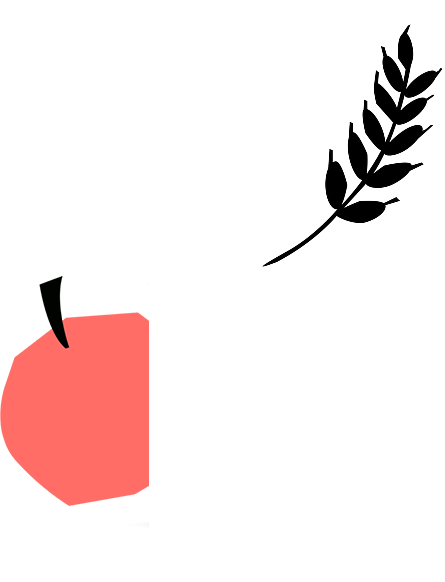
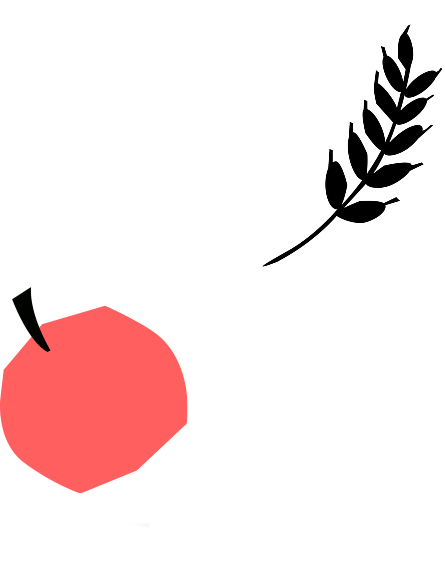
Hero Scroll Animation

Changed region(s): [[0.0292, 0.4639, 0.4382, 0.866], [0.0, 0.6186, 0.0292, 0.7732], [0.0292, 0.7732, 0.0584, 0.8041]]

diff --git a/index.html b/index.html
@@ -2,7 +2,7 @@
 <html lang="en">
 <head>
   <meta charset="utf-8">
-  <title>Vamos</title>
+  <title>Vamos - By Mahou</title>
   <meta name="viewport" content="width=device-width, initial-scale=1, shrink-to-fit=no">
   <link rel="shortcut icon" href="images/logo.png">
   <link rel="stylesheet" href="include/css/bootstrap/bootstrap.min.css" type="text/css">
@@ -11,12 +11,9 @@
   <link rel="stylesheet" href="include/css/fontawesome.min.css">
   <link rel="stylesheet" href="include/webfonts/fonts.css">
   
-  
   <link rel="stylesheet" href="include/css/owl.carousel.min.css">
   <link rel="stylesheet" href="include/css/owl.theme.default.min.css">
-
   
-
   <link rel="stylesheet" href="include/css/animate.css">
   <script src="include/js/wow.min.js"></script>
   <script>new WOW().init();</script>
@@ -51,21 +48,54 @@
       </div>
       <div class="row justify-content-center">
         <div class="hero-cans-con">
-          <div class="div1 valign-baseline wow fadeInLeft"><img src="images/laliga.png" class="w-100" alt=""></div>
-          <div class="div2 valign-baseline wow fadeInRight">
+          <div class="div1 valign-baseline"><img src="images/laliga.png" class="w-100" alt=""></div>
+          <div class="div2 valign-baseline">
             <div class="non-alcoholic text-end d-block">non-alcoholic<br>malt beverage</div>
             <!-- <div class="explore-btn"><a href="#"><img src="images/hero-btn.png" class="w-100" alt=""></a></div> -->
-            <div class="explore-btn">
+            <div class="explore-btn text-end">
               <a href="#"><span>Explore</span><img src="images/logo.png" alt=""></a>
             </div>
           </div>
           <!-- <div class="div3"><img src="images/hero-img.png" class="w-100" alt=""></div> -->
           <div class="div3">
-            <div class="hero-img-animation">
-              <div class="hero-shape"></div>
-              <div class="hero-can wow bounceInUp"><img src="images/pinapple-can.png" class="w-100" alt=""></div>
-              <div class="hero-can wow bounceInUp"><img src="images/toasted-malt-can.png" class="w-100" alt=""></div>
-              <div class="hero-can wow bounceInUp"><img src="images/apple-can.png" class="w-100" alt=""></div>
+            <div class="hero-animation">
+              <div class="hero-product-box">
+                <div class="product-img animated-products animated-products-left">
+                  <img src="images/can-mask.png" class="mw-100" alt="">
+                  <div class="product-labels">
+                    <img src="images/peach-label-hero.jpg" alt="">
+                    <img src="images/peach-label-hero.jpg" alt="">
+                  </div>
+                </div>
+              </div>
+              <div class="hero-product-box">
+                <div class="product-img animated-products animated-products-left">
+                  <img src="images/can-mask.png" class="mw-100" alt="">
+                  <div class="product-labels">
+                    <img src="images/malt-label-hero.jpg" alt="">
+                    <img src="images/malt-label-hero.jpg" alt="">
+                  </div>
+                </div>
+              </div>
+              <div class="hero-product-box">
+                <div class="product-img animated-products animated-products-right">
+                  <img src="images/can-mask.png" class="mw-100" alt="">
+                  <div class="product-labels">
+                    <img src="images/pinapple-label.jpg" alt="">
+                    <img src="images/pinapple-label.jpg" alt="">
+                  </div>
+                </div>
+              </div>
+              <div class="hero-product-box">
+                <div class="product-img animated-products animated-products-right">
+                  <img src="images/can-mask.png" class="mw-100" alt="">
+                  <div class="product-labels">
+                    <img src="images/apple-label.jpg" alt="">
+                    <img src="images/apple-label.jpg" alt="">
+                  </div>
+                </div>
+              </div>
+
             </div>
           </div>
         </div>
@@ -97,11 +127,47 @@
     <div class="row">
       <div class="col-12">
         <div class="team-carousel owl-carousel owl-theme wow fadeInRight">
-          <div class="product-box">
+          <div class="product-box" style="background-image:url(images/peach-bg.png);">
             <div class="product-name">Peach <span>with Vanilla</span></div>
-            <div class="product-img" style="background-image:url(images/peach-bg.png);"><img src="images/peach-can.png" class="w-100" alt=""></div>
+            <div class="product-img animated-products">
+              <img src="images/can-mask-pc.png" class="mw-100" alt="">
+              <div class="product-labels">
+                <img src="images/peach-label.jpg" alt="">
+                <img src="images/peach-label.jpg" alt="">
+              </div>
+            </div>
           </div>
-          <div class="product-box">
+          <div class="product-box" style="background-image:url(images/malt-bg.png);">
+            <div class="product-name">Toasted <span>Malt</span></div>
+            <div class="product-img animated-products">
+              <img src="images/can-mask-pc.png" class="mw-100" alt="">
+              <div class="product-labels">
+                <img src="images/malt-label.jpg" alt="">
+                <img src="images/malt-label.jpg" alt="">
+              </div>
+            </div>
+          </div>
+          <div class="product-box" style="background-image:url(images/pinapple-bg.png);">
+            <div class="product-name">Pineapple <span>with caramel</span></div>
+            <div class="product-img animated-products">
+              <img src="images/can-mask-pc.png" class="mw-100" alt="">
+              <div class="product-labels">
+                <img src="images/pinapple-label.jpg" alt="">
+                <img src="images/pinapple-label.jpg" alt="">
+              </div>
+            </div>
+          </div>
+          <div class="product-box" style="background-image:url(images/apple-bg.png);">
+            <div class="product-name">Apple <span>with Cinnamon</span></div>
+            <div class="product-img animated-products">
+              <img src="images/can-mask-pc.png" class="mw-100" alt="">
+              <div class="product-labels">
+                <img src="images/apple-label.jpg" alt="">
+                <img src="images/apple-label.jpg" alt="">
+              </div>
+            </div>
+          </div>
+          <!-- <div class="product-box">
             <div class="product-name">Toasted <span>Malt</span></div>
             <div class="product-img" style="background-image:url(images/malt-bg.png);"><img src="images/toasted-malt-can.png" class="w-100" alt=""></div>
           </div>
@@ -112,7 +178,7 @@
           <div class="product-box">
             <div class="product-name">Apple <span>with Cinnamon</span></div>
             <div class="product-img" style="background-image:url(images/apple-bg.png);"><img src="images/apple-can.png" class="w-100" alt=""></div>
-          </div>
+          </div> -->
         </div>
       </div>
     </div>
@@ -170,6 +236,7 @@
   <script src="include/js/owl.carousel.js"></script>
 
   <script src="https://cdn.jsdelivr.net/npm/gsap@3.13.0/dist/gsap.min.js"></script>
+  <script src="https://cdn.jsdelivr.net/npm/gsap@3.13.0/dist/ScrollTrigger.min.js"></script>
   <script src="https://cdn.jsdelivr.net/npm/gsap@3.13.0/dist/SplitText.min.js"></script>
   <script>
   // use a script tag or an external JS file
@@ -188,8 +255,78 @@
       /* delay:0.5 */
     });
   });
-
   </script>
+<script>
+ // use a script tag or an external JS file
+document.addEventListener("DOMContentLoaded", (event) => {
+  gsap.registerPlugin(ScrollTrigger)
+  // gsap code here!
+  let hero = document.querySelector(".hero");
+  let viewportWidth = window.innerWidth;
+
+  let tl = gsap.timeline({
+    scrollTrigger: {
+      trigger: hero,
+      start: "top top",
+      end:  () => window.innerHeight * 3 + " top",
+      scrub: true,
+      pin: true,
+      toggleActions: "play none none none",
+      // markers: true
+    }
+    /* scrollTrigger: {
+      trigger: ".animated-products",
+      start: "bottom bottom",
+      end: "bottom top",
+      scrub: true,
+      pin: hero,
+      toggleActions: "play none none none",
+      markers: true
+    } */
+  });
+
+  tl.from(".animated-products-left, .animated-products-right", {
+    duration:300,
+    // x:-viewportWidth,
+    x: (i, el) => el.classList.contains("animated-products-left") ? -window.innerWidth : window.innerWidth,
+    stagger:0.2,
+    // scale: 0,
+    ease:"power4.out",
+  });
+  tl.to(".animated-products-left .product-labels",{
+    duration:300,
+    //x:viewportWidth*.42,
+    x: window.innerWidth > 990
+    ? viewportWidth*.37
+    : window.innerWidth > 768
+      ? viewportWidth*.65
+      : viewportWidth*.42,
+    stagger:0.2,
+    ease:"power4.out",
+  },0);
+  /* tl.from(".animated-products-right", {
+    duration:300,
+    x:viewportWidth,
+    stagger:0.2,
+    ease:"power4.out",
+  }); */
+  tl.to(".animated-products-right .product-labels",{
+    duration:300,
+    x:-viewportWidth*.37,
+    stagger:0.2,
+    ease:"power4.out",
+  },0);
+  tl.from(".div1, .div2",{
+    delay:300,
+    duration:300,
+    opacity:0,
+    y:-30,// > 768 ? -400 : 0
+    stagger:0.2,
+    ease:"power4.out",
+  },0);
+});
+
+</script>
 
   <!-- Smooth Scrolling -->
   <script src="https://unpkg.com/lenis@1.3.11/dist/lenis.min.js"></script> 

diff --git a/include/css/owl.carousel.min.css b/include/css/owl.carousel.min.css
@@ -3,4 +3,4 @@
  * Copyright 2013-2018 David Deutsch
  * Licensed under: SEE LICENSE IN https://github.com/OwlCarousel2/OwlCarousel2/blob/master/LICENSE
  */
-.owl-carousel,.owl-carousel .owl-item{-webkit-tap-highlight-color:transparent;position:relative}.owl-carousel{display:none;width:100%;z-index:1}.owl-carousel .owl-stage{position:relative;-ms-touch-action:pan-Y;touch-action:manipulation;-moz-backface-visibility:hidden}.owl-carousel .owl-stage:after{content:".";display:block;clear:both;visibility:hidden;line-height:0;height:0}.owl-carousel .owl-stage-outer{position:relative;overflow:hidden;-webkit-transform:translate3d(0,0,0)}.owl-carousel .owl-item,.owl-carousel .owl-wrapper{-webkit-backface-visibility:hidden;-moz-backface-visibility:hidden;-ms-backface-visibility:hidden;-webkit-transform:translate3d(0,0,0);-moz-transform:translate3d(0,0,0);-ms-transform:translate3d(0,0,0)}.owl-carousel .owl-item{min-height:1px;float:left;-webkit-backface-visibility:hidden;-webkit-touch-callout:none}.owl-carousel .owl-item img{display:block;width:100%}.owl-carousel .owl-dots.disabled,.owl-carousel .owl-nav.disabled{display:none}.no-js .owl-carousel,.owl-carousel.owl-loaded{display:block}.owl-carousel .owl-dot,.owl-carousel .owl-nav .owl-next,.owl-carousel .owl-nav .owl-prev{cursor:pointer;-webkit-user-select:none;-khtml-user-select:none;-moz-user-select:none;-ms-user-select:none;user-select:none}.owl-carousel .owl-nav button.owl-next,.owl-carousel .owl-nav button.owl-prev,.owl-carousel button.owl-dot{background:0 0;color:inherit;border:none;padding:0!important;font:inherit}.owl-carousel.owl-loading{opacity:0;display:block}.owl-carousel.owl-hidden{opacity:0}.owl-carousel.owl-refresh .owl-item{visibility:hidden}.owl-carousel.owl-drag .owl-item{-ms-touch-action:pan-y;touch-action:pan-y;-webkit-user-select:none;-moz-user-select:none;-ms-user-select:none;user-select:none}.owl-carousel.owl-grab{cursor:move;cursor:grab}.owl-carousel.owl-rtl{direction:rtl}.owl-carousel.owl-rtl .owl-item{float:right}.owl-carousel .animated{animation-duration:1s;animation-fill-mode:both}.owl-carousel .owl-animated-in{z-index:0}.owl-carousel .owl-animated-out{z-index:1}.owl-carousel .fadeOut{animation-name:fadeOut}@keyframes fadeOut{0%{opacity:1}100%{opacity:0}}.owl-height{transition:height .5s ease-in-out}.owl-carousel .owl-item .owl-lazy{opacity:0;transition:opacity .4s ease}.owl-carousel .owl-item .owl-lazy:not([src]),.owl-carousel .owl-item .owl-lazy[src^=""]{max-height:0}.owl-carousel .owl-item img.owl-lazy{transform-style:preserve-3d}.owl-carousel .owl-video-wrapper{position:relative;height:100%;background:#000}.owl-carousel .owl-video-play-icon{position:absolute;height:80px;width:80px;left:50%;top:50%;margin-left:-40px;margin-top:-40px;background:url(owl.video.play.png) no-repeat;cursor:pointer;z-index:1;-webkit-backface-visibility:hidden;transition:transform .1s ease}.owl-carousel .owl-video-play-icon:hover{-ms-transform:scale(1.3,1.3);transform:scale(1.3,1.3)}.owl-carousel .owl-video-playing .owl-video-play-icon,.owl-carousel .owl-video-playing .owl-video-tn{display:none}.owl-carousel .owl-video-tn{opacity:0;height:100%;background-position:center center;background-repeat:no-repeat;background-size:contain;transition:opacity .4s ease}.owl-carousel .owl-video-frame{position:relative;z-index:1;height:100%;width:100%}
+.owl-carousel,.owl-carousel .owl-item{-webkit-tap-highlight-color:transparent;position:relative}.owl-carousel{display:none;width:100%;z-index:1}.owl-carousel .owl-stage{position:relative;-ms-touch-action:pan-Y;touch-action:manipulation;-moz-backface-visibility:hidden}.owl-carousel .owl-stage:after{content:".";display:block;clear:both;visibility:hidden;line-height:0;height:0}.owl-carousel .owl-stage-outer{position:relative;overflow:hidden;-webkit-transform:translate3d(0,0,0)}.owl-carousel .owl-item,.owl-carousel .owl-wrapper{-webkit-backface-visibility:hidden;-moz-backface-visibility:hidden;-ms-backface-visibility:hidden;-webkit-transform:translate3d(0,0,0);-moz-transform:translate3d(0,0,0);-ms-transform:translate3d(0,0,0)}.owl-carousel .owl-item{min-height:1px;float:left;-webkit-backface-visibility:hidden;-webkit-touch-callout:none}/* .owl-carousel .owl-item img{display:block;width:100%} */.owl-carousel .owl-dots.disabled,.owl-carousel .owl-nav.disabled{display:none}.no-js .owl-carousel,.owl-carousel.owl-loaded{display:block}.owl-carousel .owl-dot,.owl-carousel .owl-nav .owl-next,.owl-carousel .owl-nav .owl-prev{cursor:pointer;-webkit-user-select:none;-khtml-user-select:none;-moz-user-select:none;-ms-user-select:none;user-select:none}.owl-carousel .owl-nav button.owl-next,.owl-carousel .owl-nav button.owl-prev,.owl-carousel button.owl-dot{background:0 0;color:inherit;border:none;padding:0!important;font:inherit}.owl-carousel.owl-loading{opacity:0;display:block}.owl-carousel.owl-hidden{opacity:0}.owl-carousel.owl-refresh .owl-item{visibility:hidden}.owl-carousel.owl-drag .owl-item{-ms-touch-action:pan-y;touch-action:pan-y;-webkit-user-select:none;-moz-user-select:none;-ms-user-select:none;user-select:none}.owl-carousel.owl-grab{cursor:move;cursor:grab}.owl-carousel.owl-rtl{direction:rtl}.owl-carousel.owl-rtl .owl-item{float:right}.owl-carousel .animated{animation-duration:1s;animation-fill-mode:both}.owl-carousel .owl-animated-in{z-index:0}.owl-carousel .owl-animated-out{z-index:1}.owl-carousel .fadeOut{animation-name:fadeOut}@keyframes fadeOut{0%{opacity:1}100%{opacity:0}}.owl-height{transition:height .5s ease-in-out}.owl-carousel .owl-item .owl-lazy{opacity:0;transition:opacity .4s ease}.owl-carousel .owl-item .owl-lazy:not([src]),.owl-carousel .owl-item .owl-lazy[src^=""]{max-height:0}.owl-carousel .owl-item img.owl-lazy{transform-style:preserve-3d}.owl-carousel .owl-video-wrapper{position:relative;height:100%;background:#000}.owl-carousel .owl-video-play-icon{position:absolute;height:80px;width:80px;left:50%;top:50%;margin-left:-40px;margin-top:-40px;background:url(owl.video.play.png) no-repeat;cursor:pointer;z-index:1;-webkit-backface-visibility:hidden;transition:transform .1s ease}.owl-carousel .owl-video-play-icon:hover{-ms-transform:scale(1.3,1.3);transform:scale(1.3,1.3)}.owl-carousel .owl-video-playing .owl-video-play-icon,.owl-carousel .owl-video-playing .owl-video-tn{display:none}.owl-carousel .owl-video-tn{opacity:0;height:100%;background-position:center center;background-repeat:no-repeat;background-size:contain;transition:opacity .4s ease}.owl-carousel .owl-video-frame{position:relative;z-index:1;height:100%;width:100%}

diff --git a/include/call-styles.css b/include/call-styles.css
@@ -90,6 +90,15 @@ a:hover, a:active, a:focus{text-decoration:none;color:var(--sc);}
 .hero-can:nth-child(2){animation-delay:0.2s;;}
 .hero-can:nth-child(3){animation-delay:0.3s;margin: -2% -21% -16% -21%;z-index:9;}
 
+.hero-animation{position:relative;width:100%;height:100%;display:flex;justify-content:center;gap:10px;}
+.hero-animation .product-img{margin:0;}
+/* .hero-product-box:first-child{transform:translateX(-50vw);}
+.hero-product-box:nth-child(2){transform:translateX(-50vw);}
+.hero-product-box:nth-child(3){transform:translateX(50vw);}
+.hero-product-box:last-child{transform:translateX(50vw);} */
+
+
+
 .First,.Second{overflow:hidden;position:relative;display:block;}
 .big-title{font-size:60px;position:relative;white-space:nowrap;left:0;font-family:var(--font-header);color:#010202;text-transform:uppercase;margin:0;line-height:1;}
 .Second{direction:rtl;}
@@ -97,9 +106,9 @@ a:hover, a:active, a:focus{text-decoration:none;color:var(--sc);}
 /* .First span{color:transparent;-webkit-text-stroke:var(--blue);-webkit-text-stroke-width:3px;} */
 
 .hero-cans-con{display:grid;grid-template-columns:repeat(2, 1fr);grid-template-rows:repeat(2, auto);gap:30px;z-index:9;margin-top:60px;}
-.div1{grid-area:1 / 1 / 2 / 2;margin-bottom:20px;}
-.div2{grid-area:1 / 2 / 2 / 3;margin-bottom:20px;}
-.div3{grid-area:2 / 1 / 3 / 3;}
+.div1{grid-area:2 / 1 / 3 / 2;margin-bottom:20px;}
+.div2{grid-area:2 / 2 / 3 / 3;margin-bottom:20px;}
+.div3{grid-area:1 / 1 / 2 / 3;}
 
 .products-section{padding:120px 0;}
 .products-section .row{flex-direction:row-reverse;}
@@ -113,15 +122,26 @@ a:hover, a:active, a:focus{text-decoration:none;color:var(--sc);}
 .line4 span{font-size:28px;font-family:var(--font-header);}
 
 .products-carousel-section{padding:120px 0;background-color:var(--blue);margin-bottom:120px;}
-.product-box{transform:scale(.8);transition:.3s;}
-.center .product-box{transform:scale(1);}
+.product-box{transform:scale(.8);transition:.3s;background-position:center bottom;background-size:0% auto;background-repeat:no-repeat;transition:.5s;transition-delay:.3s;}
+.center .product-box{transform:scale(1);background-size:100% auto;}
 .product-name{font-size:90px;font-family:var(--font-header);text-transform:uppercase;color:var(--bg-color);margin-top:30px;margin-bottom:10px;text-align:center;opacity:0;line-height:.8;margin-bottom:-8px;transition:.3s;}
 .product-name span{display:block;font-size:42px;}
 .center .product-box .product-name{opacity:1;}
-.product-img{background-position:center;background-size:0% 100%;background-repeat:no-repeat;transition:.5s;transition-delay:.3s;}
-.center .product-box .product-img{background-size:100% 100%;}
 .products-carousel-section .products-section-btn a{background:var(--bg-color);color:var(--blue);}
 .products-carousel-section .products-section-btn a:hover{background:var(--red);color:var(--bg-color);}
+
+.animated-products{overflow:hidden;position: relative;margin: 0 15%;}
+.animated-products>img{z-index:9;position: relative;width: 100%;}
+.product-labels{position:absolute;bottom:0;top:0;left: 0;/* transform:translateX(-50%); */display:flex;gap:0;z-index:1;}
+.animated-products-left .product-labels{left:auto;right: 0;}
+.center .animated-products .product-labels{animation:slide-left 40s linear infinite;}
+/* .product-box::after{content:attr(data-bg);position:absolute;inset:0;transform:scaleX(.1);transition-duration:.5s;transition-delay:.3s;z-index:-1;transform-origin:center;}
+.center .product-box::after{transform:scaleX(1);}
+ */
+@keyframes slide-left{
+	0%{transform:translateX(0);}
+	100%{transform:translateX(-50%);}
+}
 
 .cta-box{position:relative;display:flex;align-items:flex-end;transform:translateZ(0);padding:0 10%;margin-top:60px;}
 .cta-box::after{content:'';position:absolute;inset:10% 0 0 0;background-color:var(--yellow);border-radius:48px;z-index:-1;}
@@ -225,7 +245,7 @@ select:-webkit-autofill:focus {background-color:#0102021A !important;-webkit-box
 
 
 @media (min-width:576px){
-	.hero-title{font-size:60px;}
+	.hero-title{font-size:42px;margin-top:30px;}
 	.hero-title.offering{font-size:48px;}
 
 }
@@ -240,12 +260,11 @@ select:-webkit-autofill:focus {background-color:#0102021A !important;-webkit-box
 .inline-img{float:left;margin-right:15px;}
 .inline-video{width:50%;}
 
-	.hero-title{font-size:72px;}
+	.hero-title{font-size: 62px;}
 	.non-alcoholic{font-size:24px;}
 	.explore-btn a{font-size:32px;}
 	.explore-btn a img{height:42px;}
 	.pinapple-hero img,.peach-hero img{height:auto;}
-	.peach-hero{display:block;}
 	.big-title{font-size:94px;}
 	.hero-title.offering{font-size:60px;}
 	
@@ -258,12 +277,12 @@ select:-webkit-autofill:focus {background-color:#0102021A !important;-webkit-box
 
 @media (min-width:992px){
     
-.hero-cans-con{display:grid;grid-template-columns:1fr 60% 1fr;grid-template-rows:1fr;grid-column-gap:0px;grid-row-gap:0px;margin-top:0;}
+.hero-cans-con{display:grid;grid-template-columns:1fr 60% 1fr;grid-template-rows:1fr;grid-column-gap:30px;grid-row-gap:30px;margin-top:0;}
 .div1{ grid-area:1 / 1 / 2 / 2;}
 .div2{ grid-area:1 / 3 / 2 / 4;}
 .div3{ grid-area:1 / 2 / 2 / 3;}
 
-	.hero-title{font-size:90px;}
+	.hero-title{font-size:90px;margin-top:60px;}
 	.hero-title.offering{font-size:66px;}
 
 	.about-hero-caon-con{margin-bottom:-35%;}
@@ -277,6 +296,7 @@ select:-webkit-autofill:focus {background-color:#0102021A !important;-webkit-box
 }
 
 @media (min-width:1200px){
+	.peach-hero{display:block;}
 	.hero-title{font-size:102px;}
 	.hero-title.offering{font-size:72px;}
     

diff --git a/about.html b/about.html
@@ -2,7 +2,7 @@
 <html lang="en">
 <head>
   <meta charset="utf-8">
-  <title>Vamos</title>
+  <title>Vamos - By Mahou</title>
   <meta name="viewport" content="width=device-width, initial-scale=1, shrink-to-fit=no">
   <link rel="shortcut icon" href="images/logo.png">
   <link rel="stylesheet" href="include/css/bootstrap/bootstrap.min.css" type="text/css">

diff --git a/contact.html b/contact.html
@@ -2,7 +2,7 @@
 <html lang="en">
 <head>
   <meta charset="utf-8">
-  <title>Vamos</title>
+  <title>Vamos - By Mahou</title>
   <meta name="viewport" content="width=device-width, initial-scale=1, shrink-to-fit=no">
   <link rel="shortcut icon" href="images/logo.png">
   <link rel="stylesheet" href="include/css/bootstrap/bootstrap.min.css" type="text/css">

diff --git a/products.html b/products.html
@@ -2,7 +2,7 @@
 <html lang="en">
 <head>
   <meta charset="utf-8">
-  <title>Vamos</title>
+  <title>Vamos - By Mahou</title>
   <meta name="viewport" content="width=device-width, initial-scale=1, shrink-to-fit=no">
   <link rel="shortcut icon" href="images/logo.png">
   <link rel="stylesheet" href="include/css/bootstrap/bootstrap.min.css" type="text/css">

diff --git a/include/js/main.js b/include/js/main.js
@@ -39,7 +39,7 @@ function FixMegaNavbar(navHeight) {
  */
 $(document).ready(function(){
 	$(".team-carousel").owlCarousel({
-		margin:0,
+		margin:30,
 		loop:true,
 		dots:false,
 		center:true,
